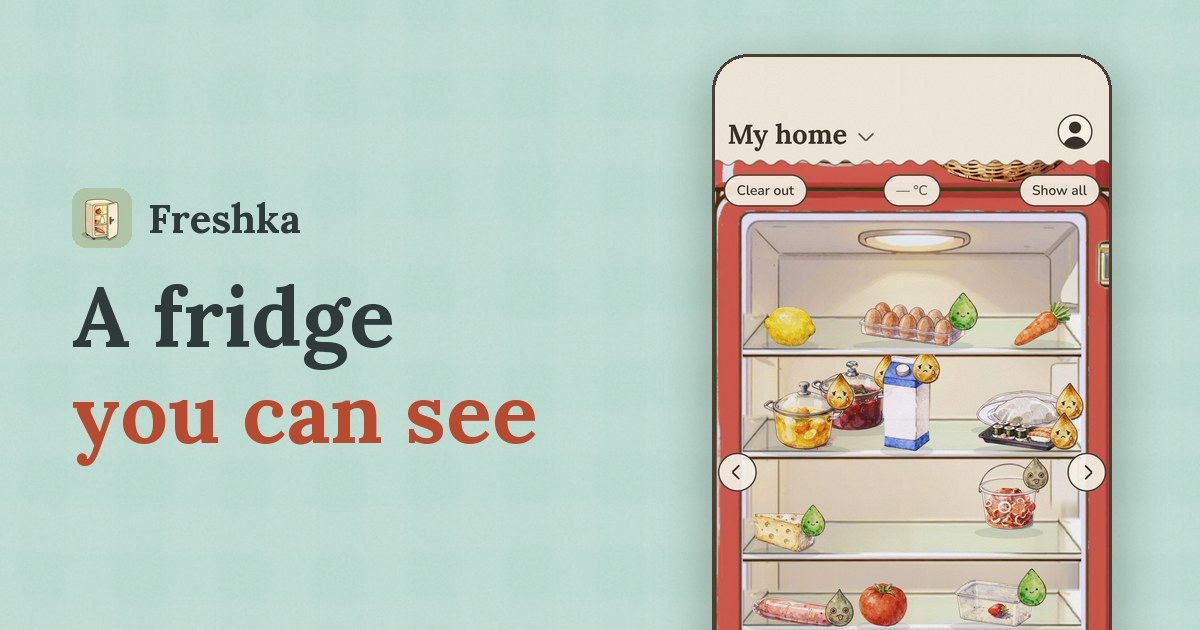
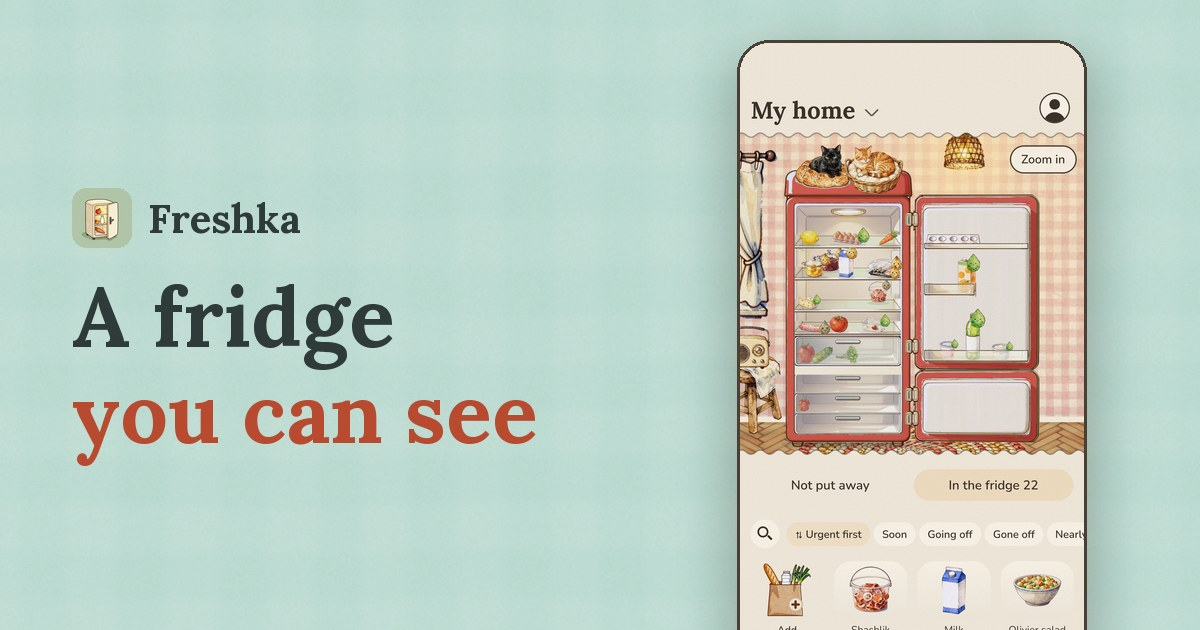
Фрешка: на превью ссылки главный экран с котами и рядом продуктов

Changed region(s): [[0.5858, 0.0905, 0.925, 1.0], [0.6167, 0.0603, 0.8942, 0.0905]]

diff --git a/freshka/_i18n/og.py b/freshka/_i18n/og.py
@@ -83,7 +83,7 @@ def preview(lang):
     app = "uk" if lang == "uk" else "en"
     canvas = c.cloth((W, H), c.GROUNDS["mint"][0], 2)
     size = text_column(canvas, "mint", "Фрешка" if lang == "uk" else "Freshka", OG_HEADLINE[lang], 84, 570)
-    phone(canvas, SHOTS / "raw-hires" / app / "3.png", 712, 54, 400)
+    phone(canvas, SHOTS / "raw-hires" / app / "1.png", 737, 40, 350)  # the main screen: the kitchen with the cats, the first row of food below
     out = (FRESHKA if lang == "uk" else FRESHKA / lang) / "og.jpg"
     out.parent.mkdir(exist_ok=True)
     canvas.convert("RGB").save(out, quality=88)
@@ -105,5 +105,5 @@ def screens():
 
 if "--screens" in sys.argv or len(sys.argv) == 2:
     screens()
-for lang in LANGS:
+for lang in ("uk",) + LANGS:
     preview(lang)
